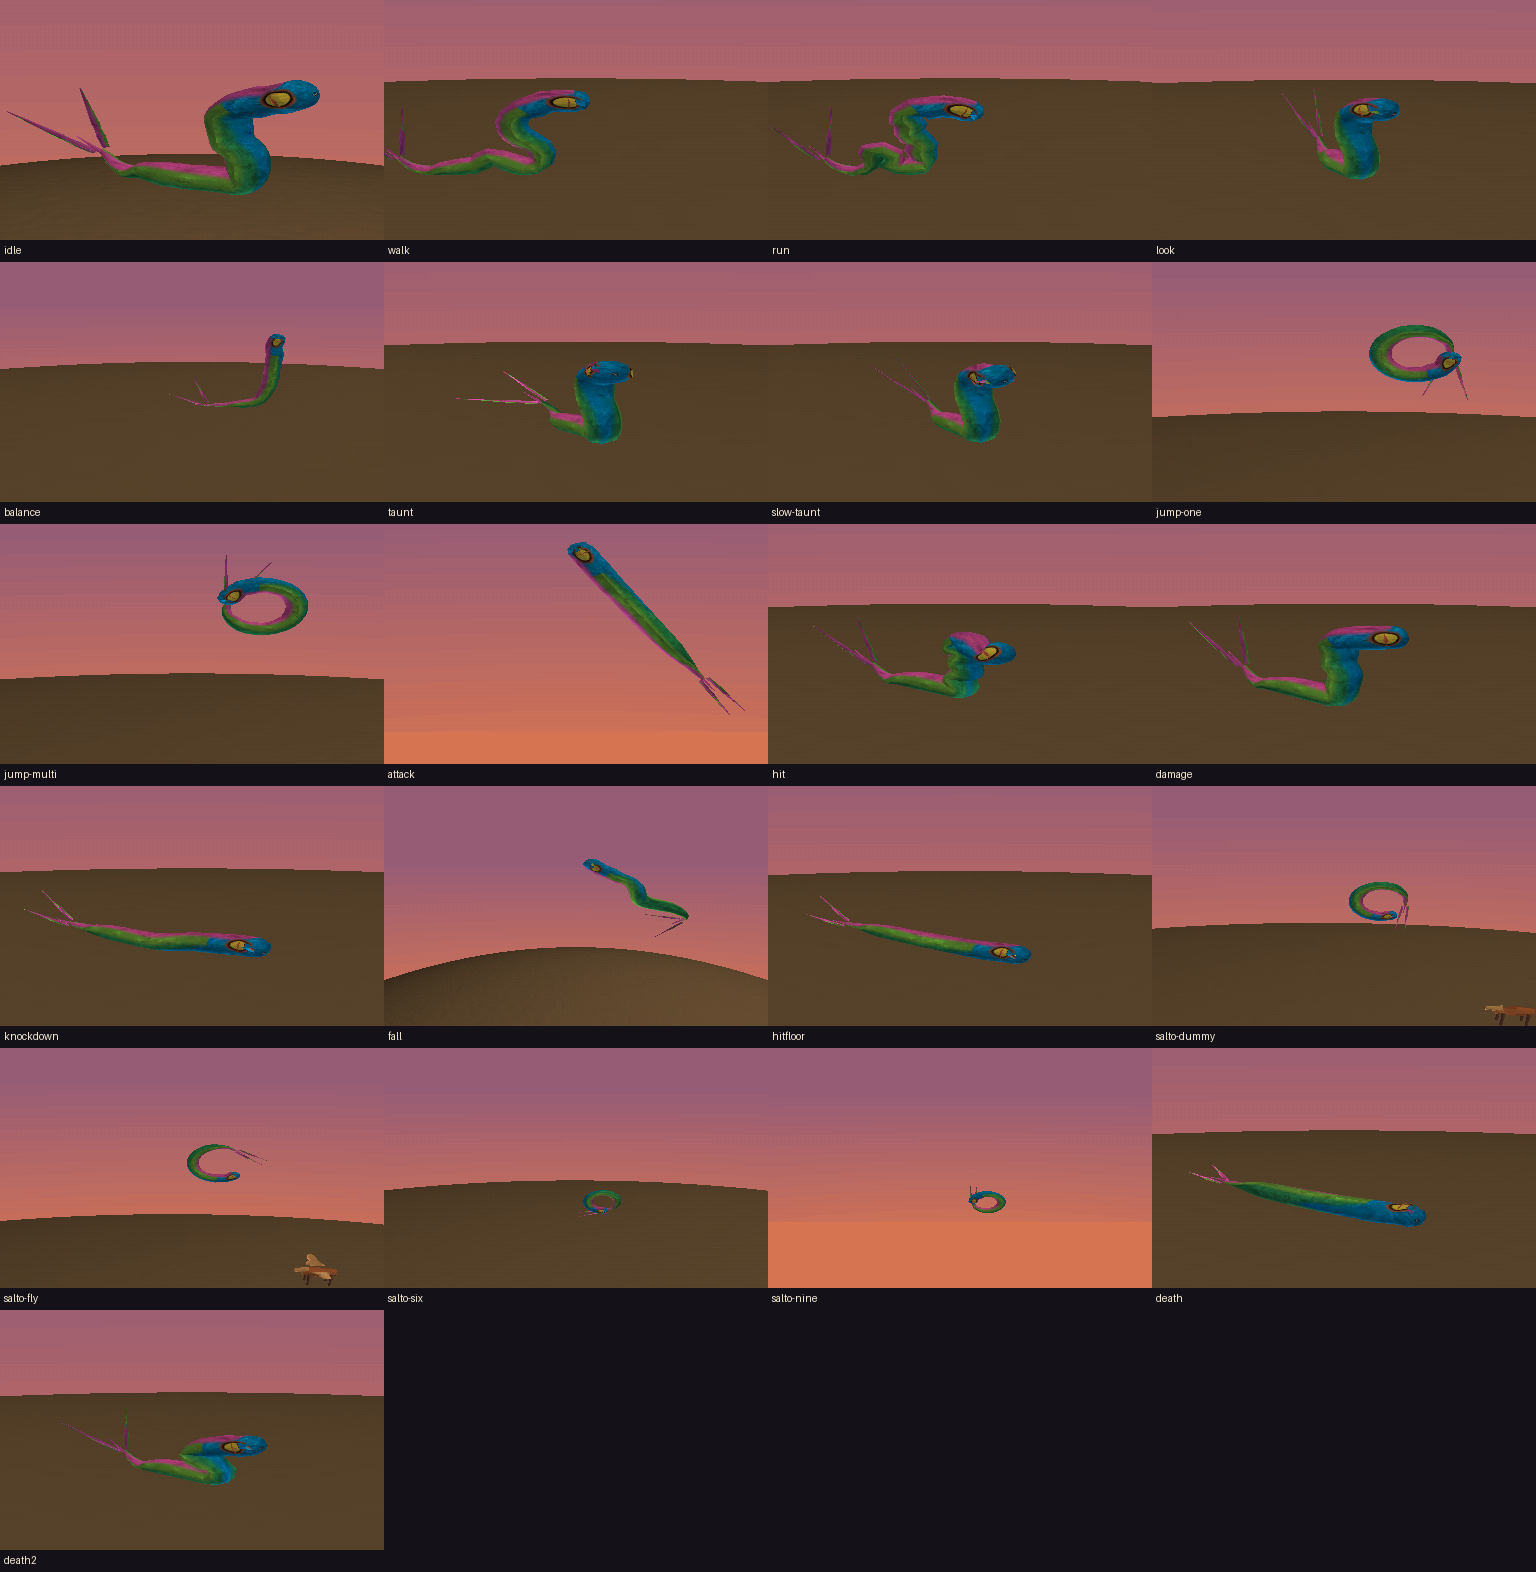
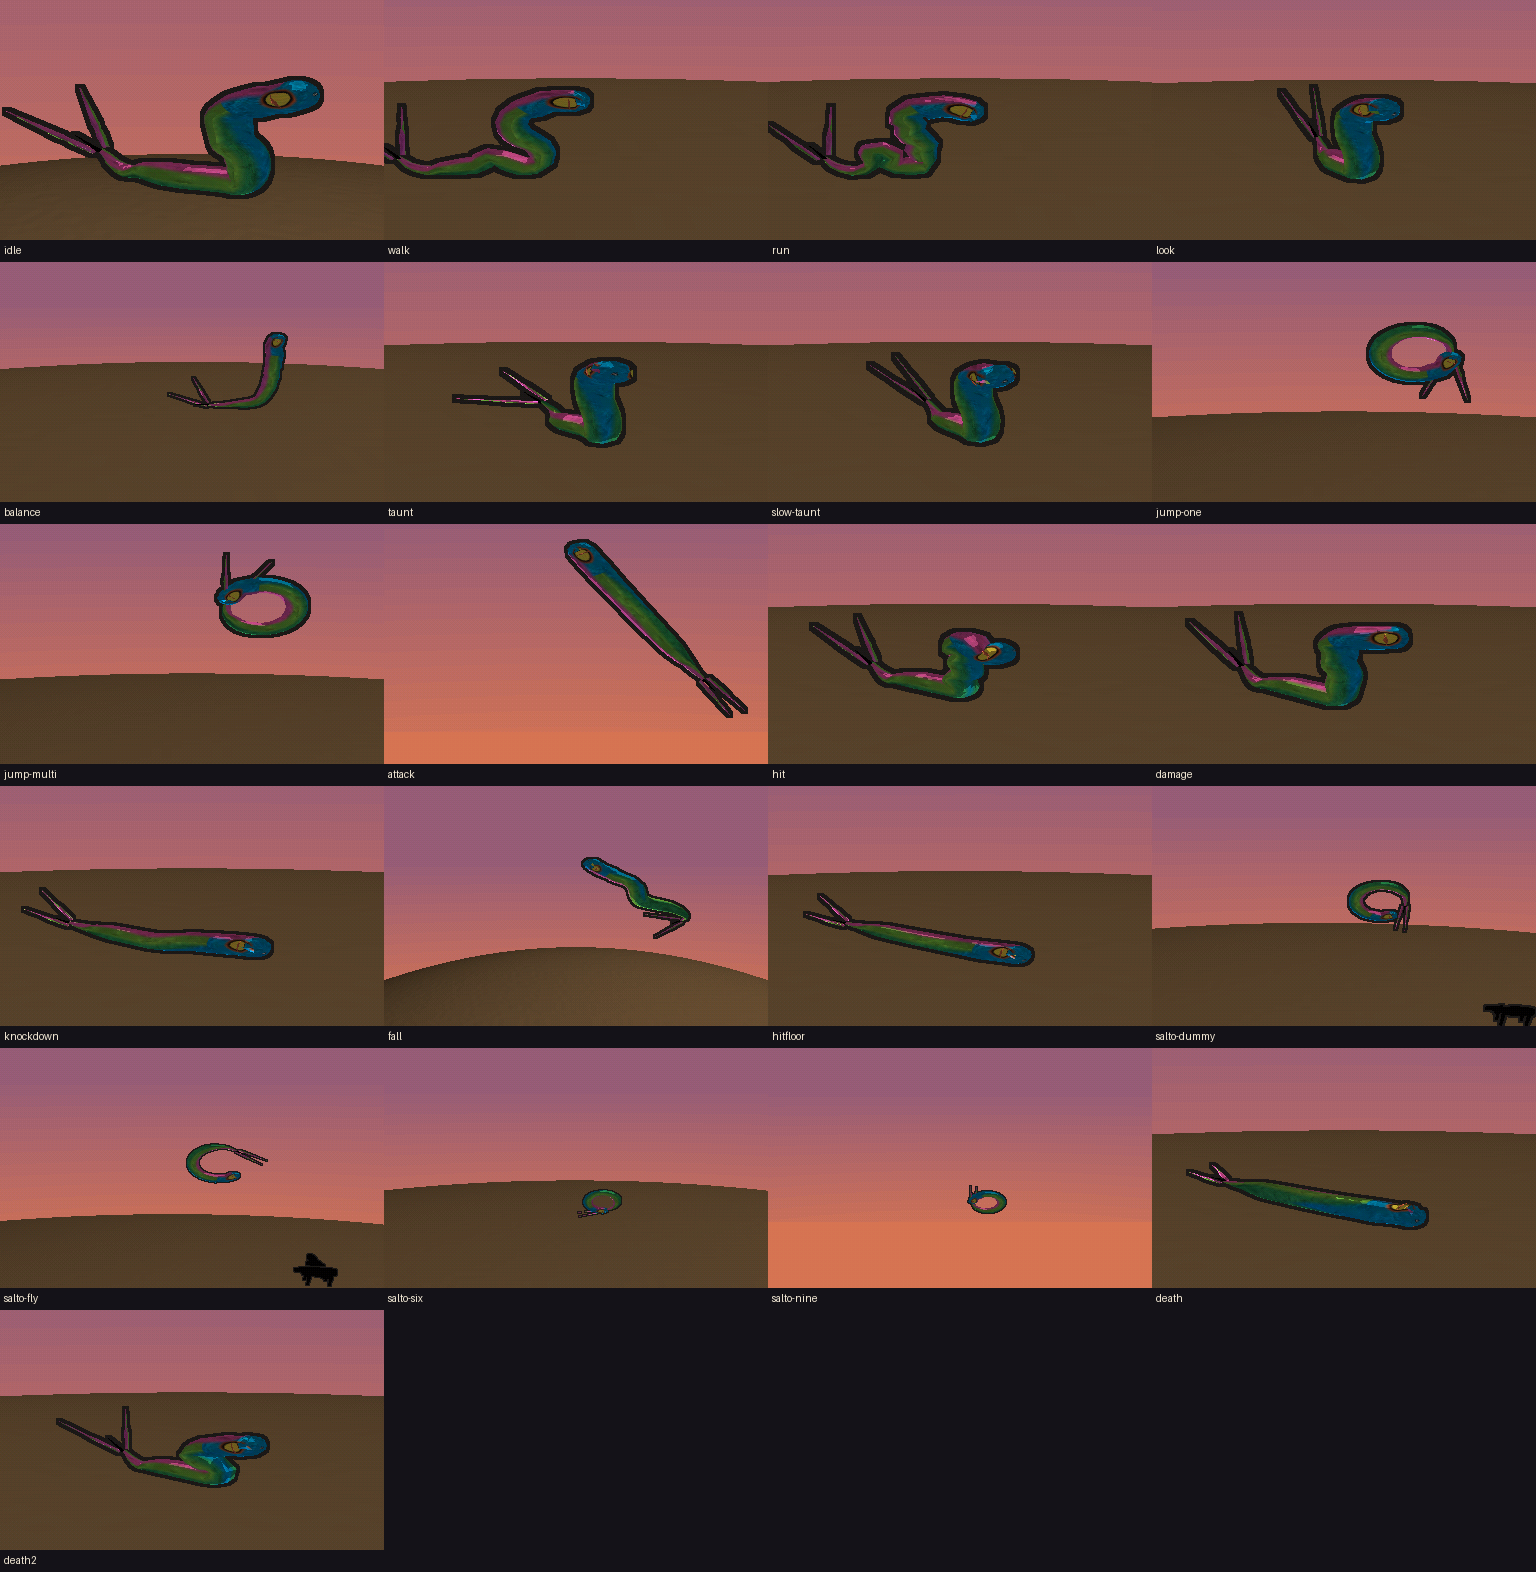
Correct final cel-main presentation evidence

diff --git a/runs/CLAUDE-RUNS/RUN-20260829-0525-zixxtrixx-v9-cel-main-art-pass/TASK_LOG.md b/runs/CLAUDE-RUNS/RUN-20260829-0525-zixxtrixx-v9-cel-main-art-pass/TASK_LOG.md
@@ -130,6 +130,15 @@ Refine the promising-but-unsuccessful v8 cel experiment into Zixxtrixx's main pr
 - Generated two independent final 28-bone golden dumps: all 46 payload/CRC files match byte-for-byte. Comparison targeted only committed Upheaval goldens: 45 final payloads versus 40 committed, five additions and no removals. The complete deliberate re-pin remains deferred until this presentation commit establishes the immutable final source SHA.
 - Promoted selected final poster/contact-sheet, media/CRC, golden-comparison and desktop/narrow interaction evidence under `evidence/final-presentation-*`.
 
+### 2026-08-29 19:06 UTC+02:00 - Final media mode omission found and corrected
+
+- The first explicit all-subject repeat exposed a presentation-mode omission that the generic reel CRC check could not see: the initially encoded site frames used `zhao-reel-cel.exe` and therefore the calm cel texture page, but were rendered without the required runtime `ZIXX_EXP=celmain` selector. They consequently lacked the smooth three-band cel-main lighting and projected-size exterior contour despite the earlier acceptance note.
+- Discarded that media set as canonical evidence. Directly rerendered all 21 subjects twice from immutable source commit `65350e0` with `ZIXX_EXP=celmain`; all 5,744 RGB frames are byte-for-byte identical across the two independent runs.
+- Looked through the corrected poster mosaic and every frame of all 21 corrected subjects. The intended exterior ink is visibly present at close, gameplay and limit distances; the complete performances retain their accepted form, eyes, elastic stripes, targets and framing.
+- Replaced all 21 current WebM/PNG pairs from the corrected frames and decoded every WebM completely. Counts match all 5,744 source frames; the corrected encoded set totals 10,086,599 bytes. Reassembled the page with `noindex, nofollow` intact.
+- Repeated desktop and true 390 CSS-pixel current/archive interactions after correction. Both widths retain one visible requested panel, correct autoplay/controls behavior and zero horizontal overflow. Stopped both servers and all `zv9-final-*` browser profiles; ports 8765/8766 are no longer listening.
+- Replaced the stale final-presentation visual/media evidence with the corrected cel-main output and added the explicit 5,744-frame repeat plus every final direct gate report. Golden repeat/comparison evidence remains valid because clip payloads were never affected by the renderer selector.
+
 ---
 
 ## Subagent Spawns
